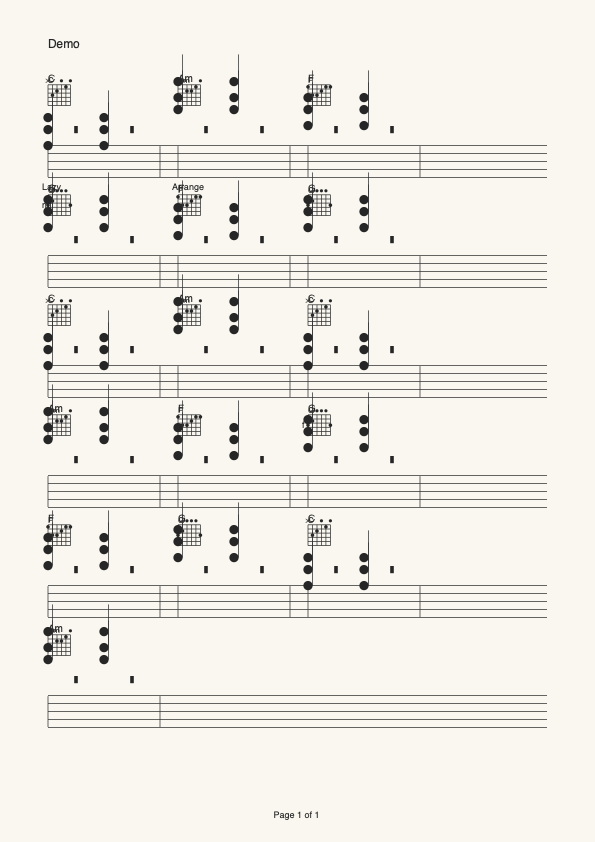
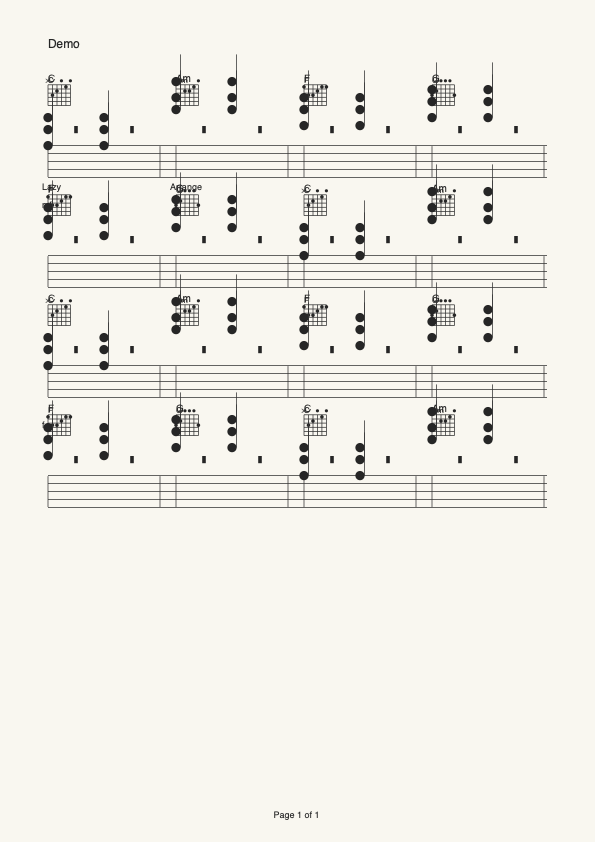
feat(score): fit four measures per system
Reduces the default measure gap from 18 to 16 so four 4/4 measures fit the
content width; the demo renders as four balanced systems. Updates the wide-page
test and the rendered page.

632 tests pass; clippy, fmt and rustdoc clean; the shell ran 6 s without a
panic.

diff --git a/crates/score/src/lib.rs b/crates/score/src/lib.rs
@@ -44,7 +44,7 @@ impl Default for Settings {
             staff_space: 8.0,
             system_gap: 110.0,
             quarter_width: 28.0,
-            measure_gap: 18.0,
+            measure_gap: 16.0,
             grand_staff: false,
         }
     }
@@ -1070,10 +1070,10 @@ mod tests {
         assert_eq!(engraved.pages.len(), 1);
         assert_eq!(
             engraved.pages[0].systems.len(),
-            2,
-            "three measures fit a system"
+            1,
+            "four measures fit a system"
         );
-        assert_eq!(engraved.pages[0].systems[0].measures.len(), 3);
+        assert_eq!(engraved.pages[0].systems[0].measures.len(), 4);
     }
 
     #[test]

diff --git a/docs/audit/cpp-features-crosscheck.md b/docs/audit/cpp-features-crosscheck.md
@@ -22,7 +22,7 @@ section below is a row, so nothing is skipped. Status: **verified**,
 | 13 | Smart chords | partial | Chord parsing, transposition, progression text, roman numerals in the chosen key, chord lane with K entry, 16 key-aware pads, and a suggestion function with dialog buttons. Reharmonize rules and dialog. Find Chords from the Music (pitch-class recognition, slash bass). Inversions/voicings as ascending pitch sets with A/B WAV audition (`voicing C --out-dir` wrote a.wav and b.wav). No Launchkey pads or chord recording |
 | 14 | Styles | partial | Yamaha open, import, compile on chords, **save container (SFF1/SFF2, real 15-section style rewritten)**. No Korg, live sections, rules editor UI, style from clips, voices/setup events. Catalog resolution by number or name (`style-resolve`) matched a real library entry; a PCG scanner now recognises the KORG marker and model name only, with no program or combi decoding |
 | 15 | Style from Audio and Link | partial | Link→monophonic MIDI; no style output, no match scores |
-| 16 | Score view | partial | MusicXML export/import with `<harmony>` chords, drum instrument ids, `<sound dynamics>`, slurs and a round-trip audit. On the demo tracks, chords (16), lyrics (2), marks (2), drums and the pitched detail are preserved (186 = 186 after merging 22 ties). A style-derived project with mixed drum/pitched tracks and overlapping notes now keeps all 1,423 pitched notes (counts and tie merges), but one chord-group note starts at a different tick inside an overlap; `<backup>` was added for overlaps, and MusicXML still cannot express every simultaneous overlap we hold, which is recorded as a limitation plus a toolkit-independent layout engine (pages, systems, measures, positioned notes, CLI report). An egui page canvas renders staff lines, barlines, noteheads, page navigation and zoom from the layout. Key detection, spelling, accidentals, canvas, vector PDF, per-pitch ties and a lyric line (40-bar two-page acceptance test). Dynamics and articulations are marks in schema v11, exchanged as MusicXML directions and drawn by both renderers. Note entry: with Note entry enabled, a click on the score inserts a note at a quarter-quantised tick and the staff pitch through one undoable command. A grand-staff toggle, beams, tuplet brackets, ties, rests in gaps/empty measures, augmentation dots (notes and rests) and articulation glyphs now draw on canvas and PDF; phrase slurs (schema v18) draw as curves, are exposed by `get_slurs`/`set_slurs` and round-trip as MusicXML `<slur>` notations; a drum track gets a one-line percussion staff with x noteheads on canvas and PDF; lyrics shift right when crowded; chord names are drawn above the staff on canvas and PDF, common major/minor/seventh chords get guitar frames (slash chords or unlisted qualities get none); the Score view has a path field and Save PDF button; chord names and guitar frames draw on canvas and PDF with a top reserve, the song title draws inside the page margin, one lyric per chord tick, PDF text uses the dark fill; `docs/audit/score-page.png` and `docs/audit/score-canvas.png` are rendered checks, and a headless egui test verifies the canvas title, chord name and measure number shapes; dense rhythms widen their measures and crowded accidentals shift left; Shift-drag resizes a note's duration (quarter-quantised); no vertical rest/dot collision avoidance or OS print dialog |
+| 16 | Score view | partial | MusicXML export/import with `<harmony>` chords, drum instrument ids, `<sound dynamics>`, slurs and a round-trip audit. On the demo tracks, chords (16), lyrics (2), marks (2), drums and the pitched detail are preserved (186 = 186 after merging 22 ties). A style-derived project with mixed drum/pitched tracks and overlapping notes now keeps all 1,423 pitched notes (counts and tie merges), but one chord-group note starts at a different tick inside an overlap; `<backup>` was added for overlaps, and MusicXML still cannot express every simultaneous overlap we hold, which is recorded as a limitation plus a toolkit-independent layout engine (pages, systems, measures, positioned notes, CLI report). An egui page canvas renders staff lines, barlines, noteheads, page navigation and zoom from the layout. Key detection, spelling, accidentals, canvas, vector PDF, per-pitch ties and a lyric line (40-bar two-page acceptance test). Dynamics and articulations are marks in schema v11, exchanged as MusicXML directions and drawn by both renderers. Note entry: with Note entry enabled, a click on the score inserts a note at a quarter-quantised tick and the staff pitch through one undoable command. A grand-staff toggle, beams, tuplet brackets, ties, rests in gaps/empty measures, augmentation dots (notes and rests) and articulation glyphs now draw on canvas and PDF; phrase slurs (schema v18) draw as curves, are exposed by `get_slurs`/`set_slurs` and round-trip as MusicXML `<slur>` notations; a drum track gets a one-line percussion staff with x noteheads on canvas and PDF; lyrics shift right when crowded; chord names are drawn above the staff on canvas and PDF, common major/minor/seventh chords get guitar frames (slash chords or unlisted qualities get none); the Score view has a path field and Save PDF button; chord names and guitar frames draw on canvas and PDF with a top reserve, the song title draws inside the page margin, one lyric per chord tick, PDF text uses the dark fill; four 4/4 measures fit a system, `docs/audit/score-page.png` shows the balanced layout, and a headless test checks canvas text; and a headless egui test verifies the canvas title, chord name and measure number shapes; dense rhythms widen their measures and crowded accidentals shift left; Shift-drag resizes a note's duration (quarter-quantised); no vertical rest/dot collision avoidance or OS print dialog |
 | 17 | Mixer and buses | partial | Tracks carry fader, pan, mute/solo and automation; buses (schema v13) have volume and pan, tracks route to a bus and can send a copy at a level, and the render sums bus buffers after the tracks. Mix view shows bus faders and a per-track routing picker. Mix rows add a send-bus picker and send-level slider over the same routing command; Loops slots have a right-click menu for clear, one-bar length and copy to playhead. Master gain and a soft limiter apply to playback and `export-audio` (`--gain-db`, `--no-limiter`), and the export prints peak/RMS; no reverb/chorus, drawn meters or other master effects |
 | 18 | Automation | partial | Volume and pan lanes with linear interpolation and held ends, applied per note in the render, edited through one undoable command. Arrange shows a volume lane for the selected track; clicking adds a point, clicking a point removes it, and each edit is one command. the automation target picker covers Volume, Pan, Send and Brightness; no plugin-parameter lanes or MIDI-port automation |
 | 19 | VST3/AU plugins | partial | Project model only: `Track.plugins` slots (id, name, format VST3/AU, path, bypass, opaque state) in schema v15, one undoable `SetPlugins` command and duplicate/no-name validation. A scanner finds installed VST3/AU bundles in the standard folders (21 found on this machine, e.g. R0Verb and sforzando) through `plugin-scan` and a `plugin_scan` tool; the Mixer's Plugins panel scans, adds a found bundle to the selected track's slots, and toggles bypass or removes slots. No plugin hosting, load validation, audio processing or editor windows; the render ignores slots |

diff --git a/docs/audit/parity.md b/docs/audit/parity.md
@@ -137,7 +137,7 @@ plurals, a real AI model and speech input.
 | MCP tools (song, score, audio, arranging, files) | `crates/mcp` | verified | 93 tools; per-tool tests and CLI calls |
 | Setup events, voices, CSEG children | `style-formats` | partial | SFF write verified; voices/setup events not written |
 | Retrigger on section change | typed, not acted on | missing | ADR-003 |
-| Notation/score engraving | `score`, `score_view`, `pdf`, `musicxml` | verified | layout/ties/beams/tuplets/grand-staff/rest/slur/percussion/lyric/accidental/rhythmic-spacing/dots/dotted-rests/frame/chord-symbol/PDF tests; slurs round-trip; Save PDF, Print via lp (unverified), score drag-move/Shift-resize; PDF/canvas checks and a headless canvas-text test |
+| Notation/score engraving | `score`, `score_view`, `pdf`, `musicxml` | verified | layout/ties/beams/tuplets/grand-staff/rest/slur/percussion/lyric/accidental/rhythmic-spacing/dots/dotted-rests/frame/chord-symbol/PDF tests; slurs round-trip; Save PDF, Print via lp (unverified), score drag-move/Shift-resize; PDF/canvas checks, four-measure systems and a headless canvas-text test |
 | UI shell (Perform/Arrange/Mix) with dark/light palettes | `apps/desktop` | implemented | palette test; light screenshot `docs/audit/light-theme.png`; header overlap fixed; sidebar menu |
 | Audio playback | `audio` | implemented | cpal; audible check pending |
 | WAV/offline render | `audio` | verified | 5.36 s real-style render |

diff --git a/docs/architecture/contracts.md b/docs/architecture/contracts.md
@@ -829,3 +829,10 @@ that still showed the older frame is therefore not the authority; the test is.
 major/natural-minor scale, the first eight chords as roman labels, the cadence
 and the first voice-leading cost. The Windows menu opens a read-only Theory
 window. A test covers the demo and an empty song.
+
+### Four-measure systems
+
+The default measure gap is 16 pt, so four 4/4 measures fit the 499 pt content
+width (4 × 112 + 3 × 16 = 496). The demo page is re-rendered at
+`docs/audit/score-page.png`; the wide-page test now expects one system of four
+measures.
